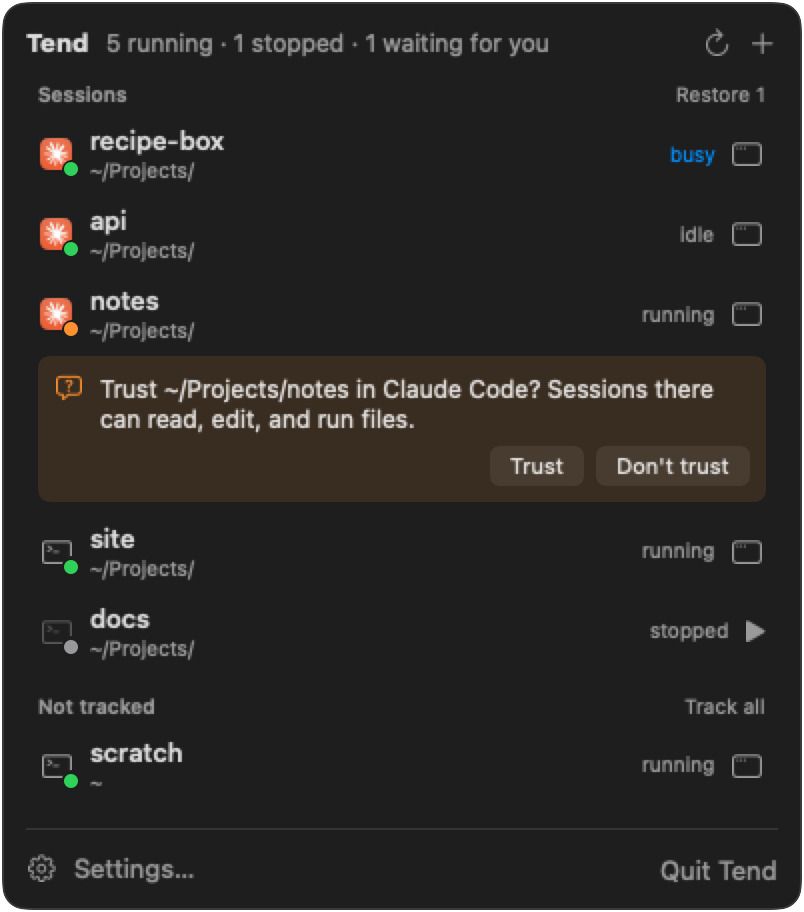
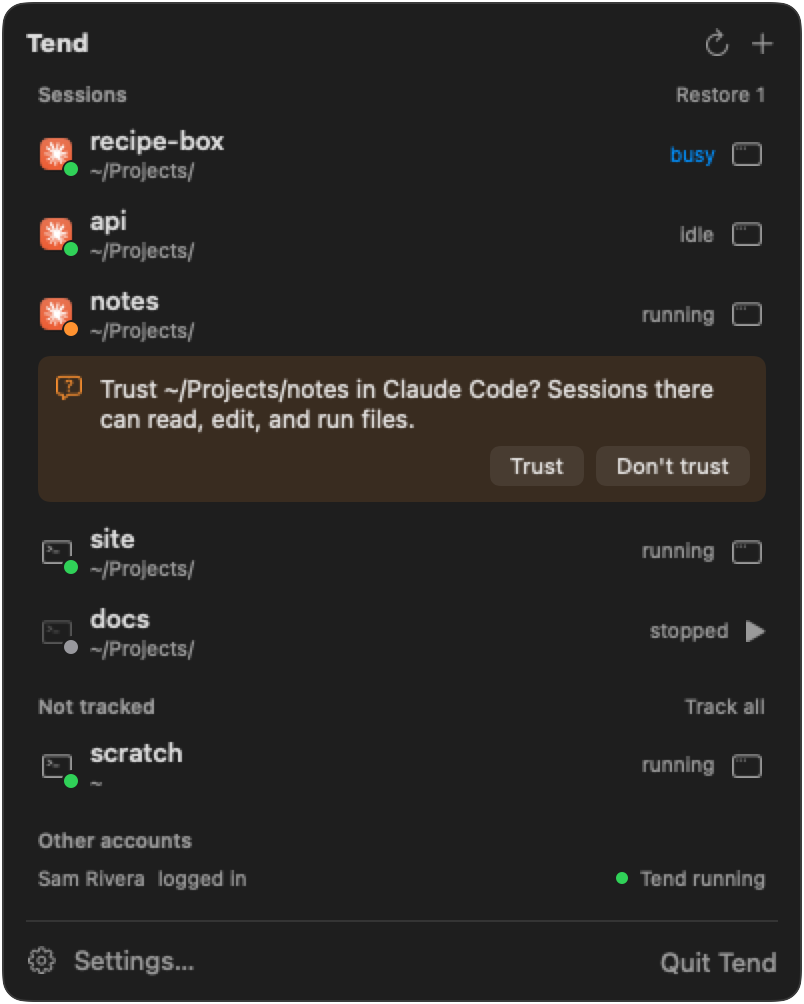
App: show watched accounts in the panel, and drop the header summary
Add a quiet Other accounts section above the footer, shown when you watch
an account. Each row says whether the account is logged in, with a green
light while its Tend runs. Remove the running, stopped, and waiting
summary from the header; the rows and the menu bar icon already show it.

diff --git a/app/Tend.swift b/app/Tend.swift
@@ -559,14 +559,6 @@ struct ContentView: View {
     @Environment(\.openSettings) private var openSettings
     @State private var spins = 0.0
 
-    var summary: String {
-        var parts = [model.runningCount == 0 ? "Nothing running" : "\(model.runningCount) running"]
-        let stopped = model.tracked.filter { $0.state == .stopped }.count
-        if stopped > 0 { parts.append("\(stopped) stopped") }
-        if model.waitingCount > 0 { parts.append("\(model.waitingCount) waiting for you") }
-        return parts.joined(separator: " · ")
-    }
-
     /// The Restore button's tooltip, which names the sessions it starts.
     var restoreHelp: String {
         let names = model.restorable.map(\.name).joined(separator: ", ")
@@ -609,6 +601,13 @@ struct ContentView: View {
                 }
             }
 
+            if let watched = model.accounts?.watched, !watched.isEmpty {
+                VStack(alignment: .leading, spacing: 2) {
+                    SectionHeader("Other accounts") { EmptyView() }
+                    ForEach(watched) { AccountRow(account: $0) }
+                }
+            }
+
             Divider()
             footer
         }
@@ -618,10 +617,7 @@ struct ContentView: View {
 
     var header: some View {
         HStack(spacing: 8) {
-            HStack(alignment: .firstTextBaseline, spacing: 8) {
-                Text("Tend").font(.headline)
-                Text(summary).font(.callout).foregroundStyle(.secondary).lineLimit(1)
-            }
+            Text("Tend").font(.headline)
             Spacer()
             if model.busy { ProgressView().controlSize(.small) }
             Button {
@@ -784,6 +780,30 @@ struct DroppedBanner: View {
 }
 
 /// A small heading over a group of rows, with room for a button.
+/// A quiet line for a watched account in the panel: whether it's logged in,
+/// and a light that's green while its Tend runs. Problems also show as
+/// banners at the top of the panel.
+struct AccountRow: View {
+    let account: AccountStatus
+
+    var body: some View {
+        HStack(spacing: 6) {
+            Text(account.name)
+            Text(account.loggedIn ? "logged in" : "not logged in")
+            Spacer()
+            if account.loggedIn {
+                Circle().fill(account.tendRunning ? Color.green : Color.orange).frame(width: 6, height: 6)
+                Text(account.tendRunning ? "Tend running" : "Tend not running")
+            }
+        }
+        .font(.caption)
+        .foregroundStyle(.secondary)
+        .padding(.horizontal, 6)
+        .padding(.vertical, 2)
+        .help(account.problem ?? "\(account.name) is logged in and their Tend is running, so their sessions restart if they stop.")
+    }
+}
+
 struct SectionHeader<Trailing: View>: View {
     let title: String
     let trailing: Trailing
